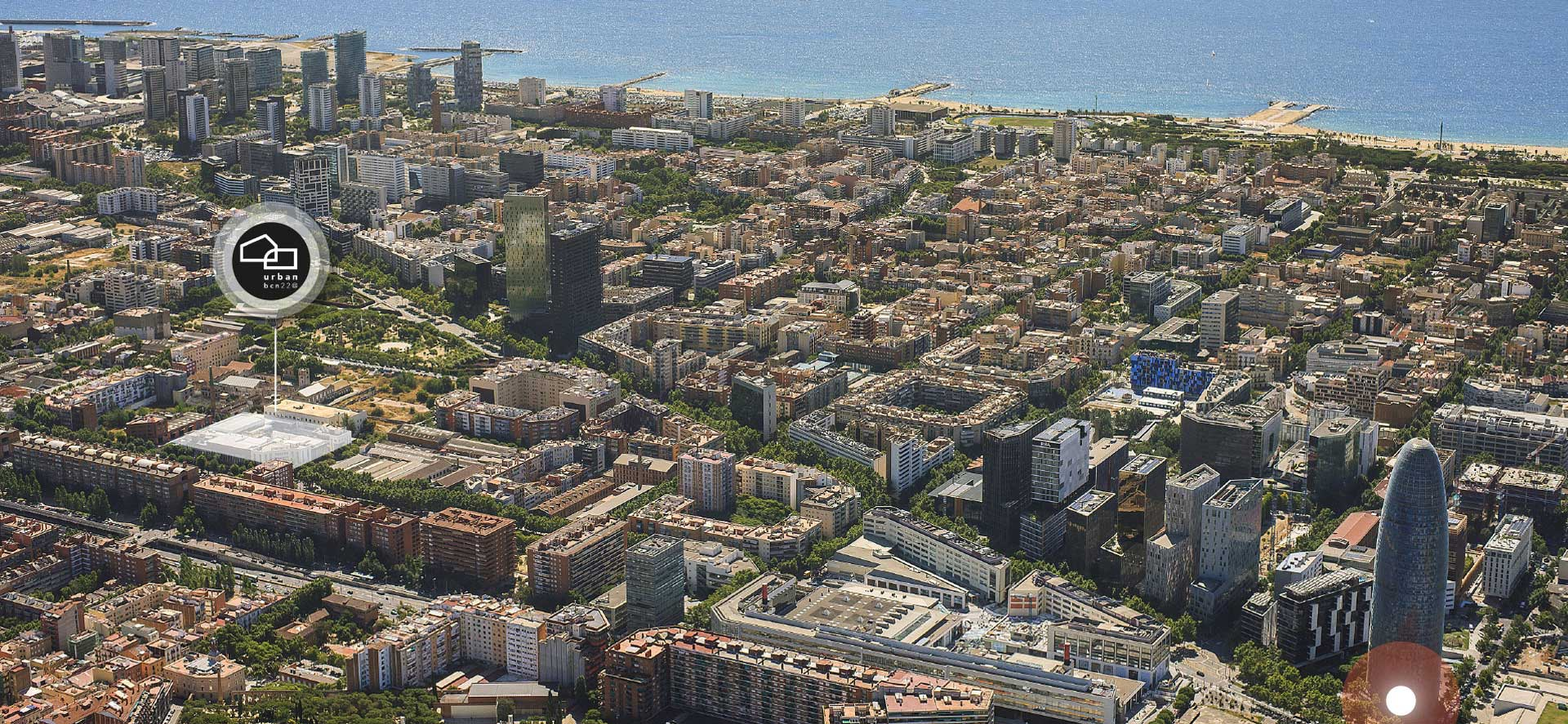
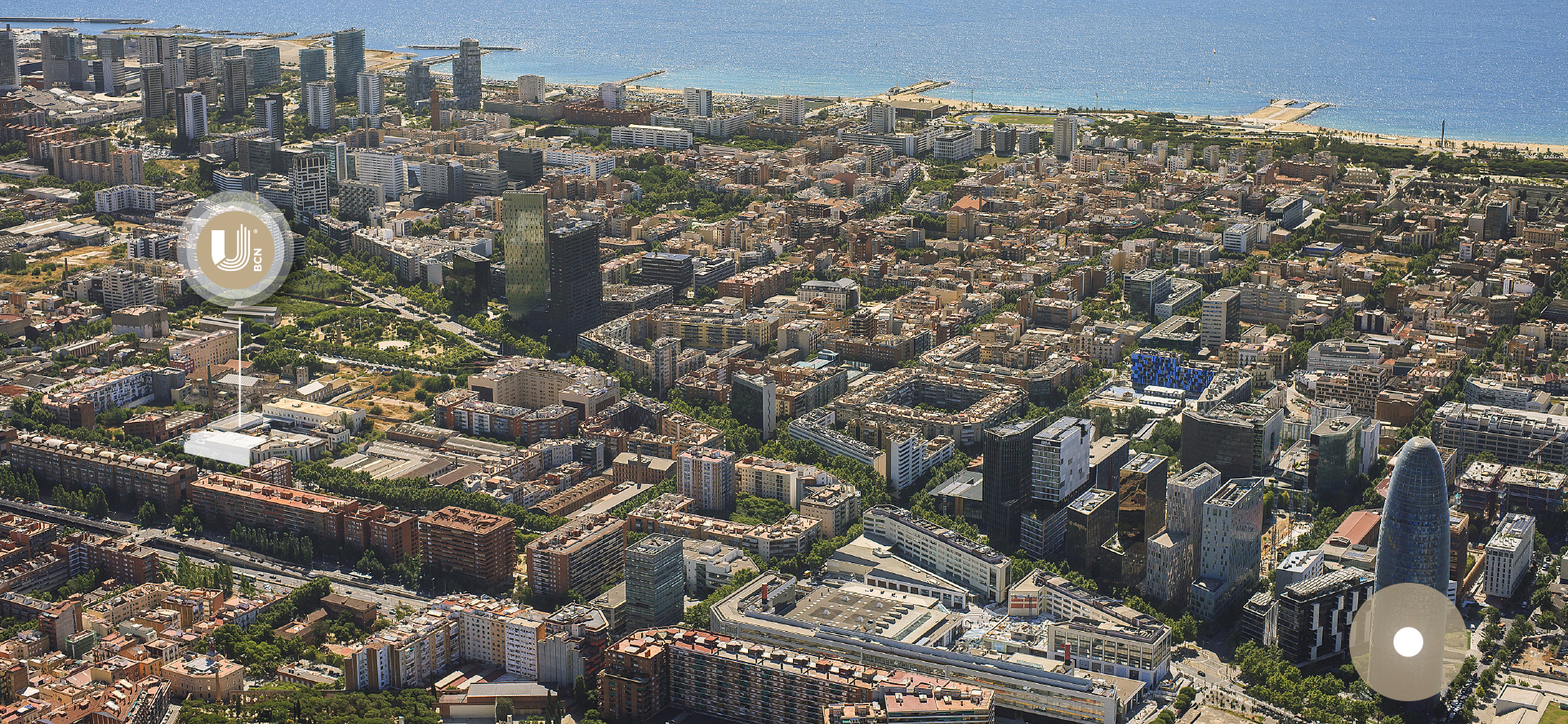
modificacions

diff --git a/web/assets/css/css.css b/web/assets/css/css.css
@@ -686,8 +686,13 @@ body {
 		display: inline-block;
 		width: 85px;
 		height: 1px;
-		border-bottom: 2px solid var(--color-primary);
+		border-bottom: 2px solid var(--color-secondary);
 		margin-top: 20px;
+	}
+        #comunicaciones .texto{
+		padding-right: 100px;
+                padding-left: 100px;
+                margin-top: 60px;
 	}
 	#comunicaciones .box{
 		display: inline-block;
@@ -740,6 +745,32 @@ body {
 
 
 
+        /* edificio
+	------------------------------------------------------------------------------------------------------  */
+	#edificio{
+		float: left;
+		width: 100%;
+		padding: 50px 0px;
+		text-align: center;
+                padding-bottom: 0;
+	}
+	#edificio h2{
+		margin: 0px;
+	}
+	#edificio .linea{
+		display: inline-block;
+		width: 85px;
+		height: 1px;
+		border-bottom: 2px solid var(--color-secondary);
+		margin-top: 20px;
+	}
+        #edificio .texto{
+		padding-right: 100px;
+                padding-left: 100px;
+                margin-top: 60px;
+                margin-bottom: 80px;
+	}
+        
 
 
 	/* servicios
@@ -933,11 +964,18 @@ body {
 		margin-top: -290px;
 		z-index: 0;
 	}
+        #prestaciones .texto{
+		padding-right: 100px;
+                padding-left: 100px;
+                margin-top: 60px;
+                margin-bottom: 80px;
+                color: #fff;
+	}
 	#prestaciones .box{
 		display: inline-block;
 		width: 100%;
-		margin-top: 90px;
-		margin-bottom: 30px;
+		margin-top: 30px;
+		margin-bottom: 50px;
 	}
 	#prestaciones .box .item{
 		display: inline-block;
@@ -2177,6 +2215,10 @@ body {
                 }
 
 
+                #comunicaciones .texto{
+                        padding-right: 25px;
+                        padding-left: 25px;
+                }
 	}
 
 

diff --git a/web/content/home.php b/web/content/home.php
@@ -120,23 +120,7 @@
     
 
 
-        <!-- slider
-        - - - - - - - - - - - - - - - - - - - - - - - - - - - - - - - - - - - - - - - - - - - - - - - - -->
-
-        <div class="row" id="slider">
-            
-            <div class="gallery">
-                <div class="gallery-cell" style="background-image: url('<? echo $appFrontUrl ?>/assets/img/slider2_1.jpg')"></div>
-                <!--<div class="gallery-cell" style="background-image: url('<? echo $appFrontUrl ?>/assets/img/slider2_2.jpg')"></div>
-                <div class="gallery-cell" style="background-image: url('<? echo $appFrontUrl ?>/assets/img/slider2_3.jpg')"></div>
-                <div class="gallery-cell" style="background-image: url('<? echo $appFrontUrl ?>/assets/img/slider2_4.jpg')"></div>
-                <div class="gallery-cell" style="background-image: url('<? echo $appFrontUrl ?>/assets/img/slider2_5.jpg')"></div>   -->             
-            </div>    
-            
-        </div>
-
-
-
+        
         <!-- localizacion
         - - - - - - - - - - - - - - - - - - - - - - - - - - - - - - - - - - - - - - - - - - - - - - - - -->
 
@@ -360,6 +344,17 @@
                     <div class="linea"></div>
 
                 </div>
+                
+                <div class="col_100">
+                    
+                    <div class="texto"> 
+                                                
+                            <p>URBAN LOFT BCN está ubicado entre dos de las mayores arterias de comunicación de Barcelona, la Avenida Diagonal y la Gran Via de les Corts Catalanes, por lo que está perfectamente conectado por transporte público.</p>
+                            <p>Además, se encuentra muy cerca de la Ronda de Dalt y la Ronda Litoral, las principales vías rápidas de acceso y salida de la ciudad.</p>                        
+                                                
+                    </div>
+
+                </div>
 
                 <div class="col_100">
 
@@ -469,7 +464,7 @@
                                     <img class="icon-anim" src="<? echo $appFrontUrl ?>/assets/img/pie_icon.png" style="width: 50px" /> 
                                 </div>
                             </div>
-                            <div class="tit"> A pié </div>
+                            <div class="tit"> A pie </div>
                             <table>
                                 <tr>
                                     <td class="dato text-right"> 6 min. </td>
@@ -522,7 +517,7 @@
                             <div class="tit"> Coche </div>
                             <table>
                                 <tr>
-                                    <td class="descr descr-full text-center"> La proximidad a estas rondas, Ronda de Dalt y Ronda Litoral, permite una rápida conexión con las principales calles, autopistas y el aeropuerto.<br/><br/>(20 minutos). </td>
+                                    <td class="descr descr-full text-center"> La proximidad a la Ronda de Dalt y Ronda Litoral, permite una rápida conexión con las principales calles, autopistas y el aeropuerto.<br/><br/>(20 minutos). </td>
                                 </tr>
                             </table>
                         </div>                        
@@ -538,6 +533,51 @@
             </div>
 
         </div>
+
+
+        
+        <!-- Edificio
+        - - - - - - - - - - - - - - - - - - - - - - - - - - - - - - - - - - - - - - - - - - - - - - - - -->
+        
+        <div class="row" id="edificio">
+            
+            <div class="content">
+                
+                <div class="col_100">
+
+                    <h2> EL EDIFICIO </h2>
+
+                    <div class="linea"></div>
+
+                </div>
+                
+                <div class="col_100">
+                    
+                    <div class="texto"> 
+                                                
+                            <p>URBAN LOFT BCN, localizado en el número 92 de la calle Perú, lo forman dos edificios conectados por un patio central y tres núcleos de comunicaciones verticales. El conjunto ha sido objeto de una rehabilitación integral en la que se han respetado el sistema compositivo, el lenguaje arquitectónico y los materiales de la facha original para preservar ese antiguo espíritu industrial de la zona.</p>
+                            <p>Se trata de una construcción moderna, actual, con una amplia variedad de servicios y prestaciones, además de diversos espacios comunes en planta baja y en cubierta diseñados para la comodidad y el disfrute de sus residentes.</p>                        
+                            <p>Todas las viviendas tienen la opción de poder disponer, además, de plaza de parking y trastero en las plantas sótano del edificio.</p>                    
+                    </div>
+
+                </div>
+                
+            </div>
+            
+        </div>
+
+        <div class="row" id="slider">
+            
+            <div class="gallery">
+                <div class="gallery-cell" style="background-image: url('<? echo $appFrontUrl ?>/assets/img/slider2_1.jpg')"></div>
+                <!--<div class="gallery-cell" style="background-image: url('<? echo $appFrontUrl ?>/assets/img/slider2_2.jpg')"></div>
+                <div class="gallery-cell" style="background-image: url('<? echo $appFrontUrl ?>/assets/img/slider2_3.jpg')"></div>
+                <div class="gallery-cell" style="background-image: url('<? echo $appFrontUrl ?>/assets/img/slider2_4.jpg')"></div>
+                <div class="gallery-cell" style="background-image: url('<? echo $appFrontUrl ?>/assets/img/slider2_5.jpg')"></div>   -->             
+            </div>    
+            
+        </div>
+
 
 
 
@@ -822,11 +862,11 @@
 
         </div>
         
-        <div class="row servicios-banner">
+        <!--<div class="row servicios-banner">
             
             <img src="<? echo $appFrontUrl ?>/assets/img/servicios_img.jpg" />
             
-        </div>
+        </div>-->
 
 
 
@@ -840,7 +880,7 @@
                 
                 <div class="col_100" id="sostenibilidad">
 
-                    <h2> MEMORIA DE CALIDADES </h2>
+                    <h2> LOFTS </h2>
 
                     <div class="linea"></div>
 
@@ -870,6 +910,22 @@
         <div class="row" id="prestaciones">
             
             <div class="content">
+                
+                <div class="col_100">
+                    
+                    <div class="texto"> 
+                                                
+                            <p>El proyecto cuenta con 25 viviendas tipo loft, de 1 o 2 dormitorios, distribuidas en planta baja, primera y segunda planta, y con orientación o hacia la calle Perú o hacia el interior de la manzana.</p>
+                            <p>La superficie de los lofts varía entre los 100 y los 126 m2 construidos. Las plantas bajas, además, disponen de unas amplias terrazas</p>
+                            <p>Las viviendas disponen de grandes ventanales que proporcionan luminosidad, calidez y confort a todas las estancias. Y la distribución de cada loft se ha diseñado para tratar de conseguir el máximo aprovechamiento de los espacios.</p>
+                            <p>Detalles como la potenciación de las jácenas de los techos o el tubo de ventilación visto aportan ese aire industrial tan característico del interior de este tipo de viviendas.</p>
+                            <p>Los lofts con 2 dormitorios tienen un núcleo central de 2 baños y una cocina abierta con un amplio salón comedor. Los de 1 dormitorio disponen de un amplio espacio abierto de cocina comedor y un baño completo, con bañera y ducha.</p>
+                            <p>Todas las viviendas están listas para entrar a vivir. Disponen de cocina totalmente equipada, incluyendo nevera y lavavajillas, luminarias en todas las dependencias, armarios empotrados forrados y completamente preparados con barras, estantes y cajones, y baños completos con mueble bajo lavabo y todos los accesorios necesarios ya instalados, como toalleros, portarrollos, etc.</p>
+                                
+                    </div>
+
+                </div>
+                
 
                 <div class="col_100 box">
 

diff --git a/web/content/inc/header.php b/web/content/inc/header.php
@@ -15,9 +15,8 @@
                         <li> <a href="#home" title="Inicio"> Inicio </a> </li>
                         <li> <a href="#localizacion" title="Localización"> Localización </a> </li>                        
                         <li> <a href="#comunicaciones" title="Comunicaciones"> Comunicaciones </a> </li>         
-                        <li> <a href="#servicios" title="Servicios"> Servicios </a> </li>        
-                        <li> <a href="#calidades" title="Calidades"> Calidades </a> </li>                        
-                        <li> <a href="#planos" title="Planos"> Planos </a> </li>
+                        <li> <a href="#edificio" title="El Edificio"> El Edificio </a> </li>        
+                        <li> <a href="#calidades" title="Calidades"> Lofts </a> </li>                        
                         <li> <a href="#video" title="Vídeo"> Vídeo </a> </li>
                         <li> <a href="#contacto" title="Contacto"> Contacto </a> </li>
                         
@@ -45,9 +44,8 @@
                     <li> <a href="#home" title="Inicio"> Inicio </a> </li>
                     <li> <a href="#localizacion" title="Localización"> Localización </a> </li>
                     <li> <a href="#comunicaciones" title="Comunicaciones"> Comunicaciones </a> </li>
-                    <li> <a href="#servicios" title="Servicios"> Servicios </a> </li>   
-                    <li> <a href="#calidades" title="Calidades"> Calidades </a> </li>                    
-                    <li> <a href="#planos" title="Planos"> Planos </a> </li>
+                    <li> <a href="#edificio" title="El Edificio"> El Edificio </a> </li>        
+                    <li> <a href="#calidades" title="Calidades"> Lofts </a> </li>           
                     <li> <a href="#video" title="Vídeo"> Vídeo </a> </li>
                     <li> <a href="#contacto" title="Contacto"> Contacto </a> </li>
 

diff --git a/web/content/inc/head.php b/web/content/inc/head.php
@@ -6,7 +6,7 @@
                 <meta name="apple-mobile-web-app-capable" content="yes" />
                 <meta name="apple-mobile-web-app-status-bar-style" content="black" />
                        
-                <link rel="icon" type="image/png" href="<? echo $appFrontUrl ?>/assets/img/favicon.png" />
+                <link rel="icon" type="image/png" href="<? echo $appFrontUrl ?>/assets/img/favicon_urban.png" />
                 
                 <link rel="stylesheet" type="text/css" href="<? echo $appFrontUrl ?>/assets/css/flickity.css" />
                 <link rel="stylesheet" href="<? echo $appFrontUrl ?>/assets/css/slider.css?id=<? echo uniqid() ?>">
